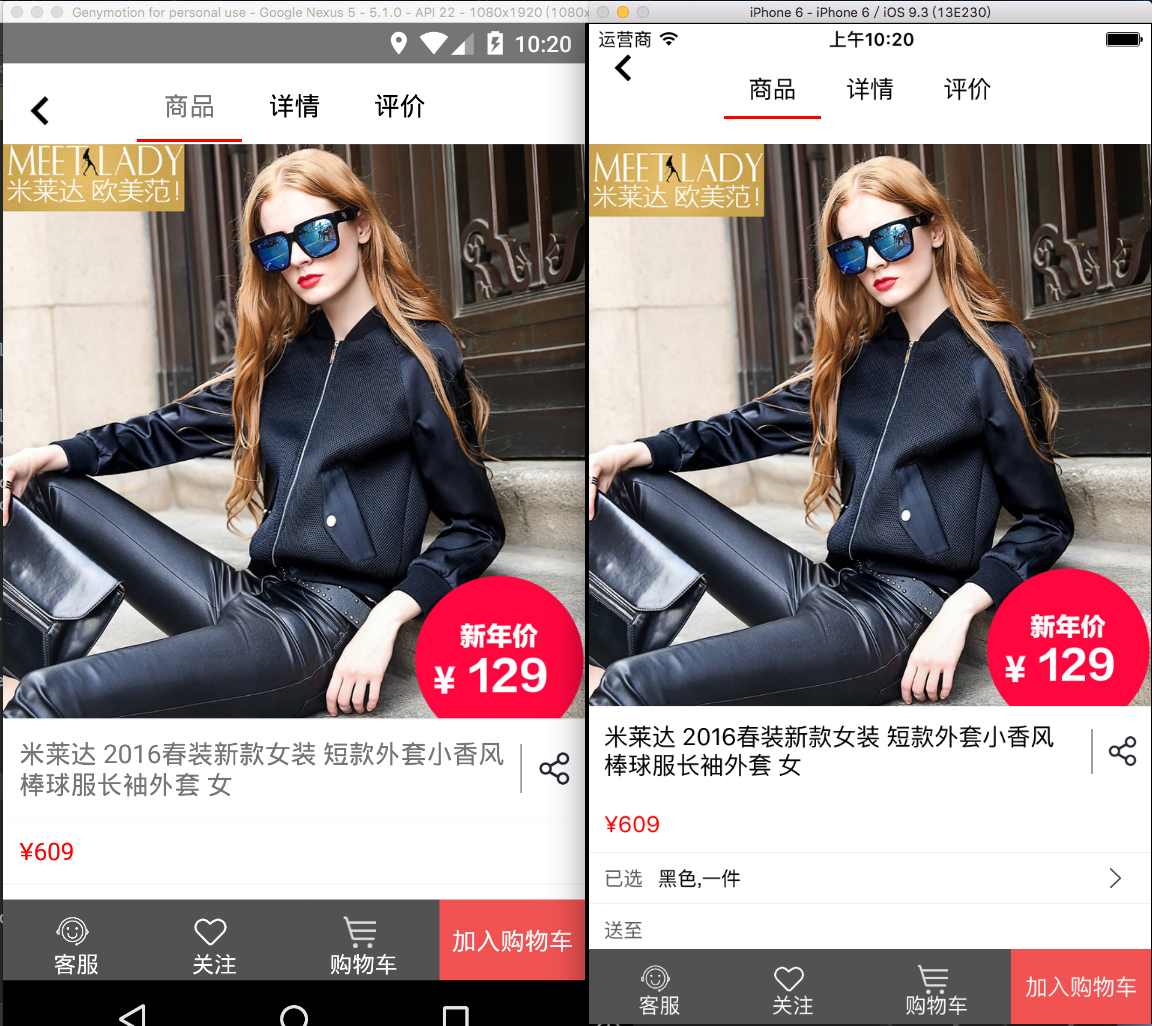
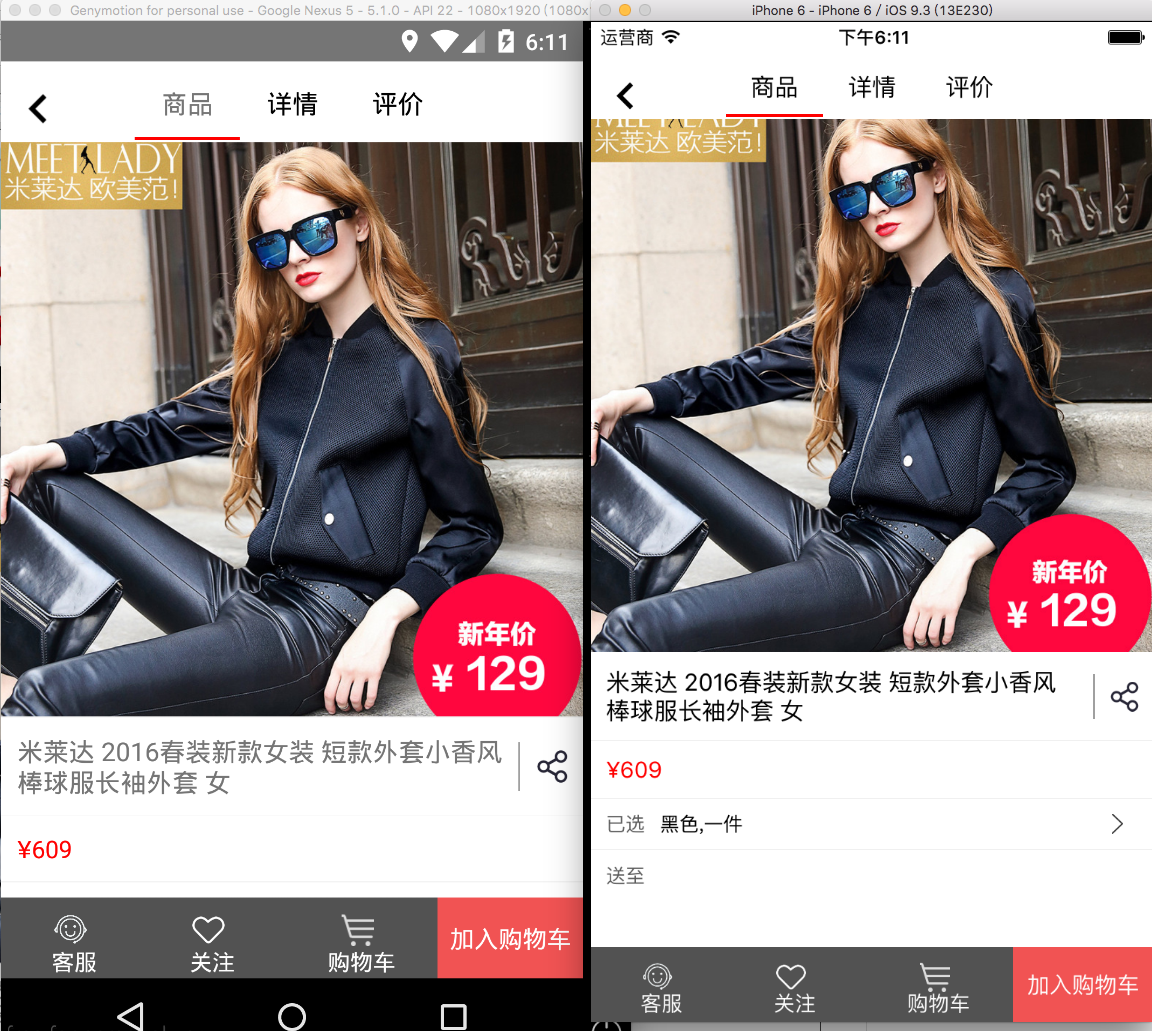
详情页action修改

diff --git a/app/product/ProductDetail.js b/app/product/ProductDetail.js
@@ -9,6 +9,7 @@ import {
     ScrollView,
     InteractionManager,
     TouchableOpacity,
+    Platform,
     View,
 } from 'react-native';
 
@@ -36,12 +37,6 @@ export default class ProductDetail extends React.Component {
 
     _onBackPress() {
         this.props.navigator.pop();
-    }
-
-    componentWillReceiveProps(nextProps) {
-        // this.setState({
-        //       isDrop:!this.state.isDrop
-        // });
     }
 
     handleSortTypesViewAnimation() {
@@ -81,6 +76,14 @@ export default class ProductDetail extends React.Component {
             <Animated.View style={typesStyle}>
                 <View style={{backgroundColor:'white',
                  height:Constant.window.height-Constant.window.height/3}}>
+
+                  <View>
+
+
+
+                  </View>
+
+
                 </View>
             </Animated.View>
         )
@@ -116,8 +119,6 @@ export default class ProductDetail extends React.Component {
                 case 0:
                     childView = <View style={{flex:1}}>
                         <ProductDetail1 {...this.props}/>
-                        {this.state.isDrop ? this.renderCoverView() : null}
-                        {this.renderSortTypesView()}
                         <View style={styles.separate}/>
                         <View style={styles.bottom}>
                             <View
@@ -149,7 +150,8 @@ export default class ProductDetail extends React.Component {
                                 </View>
                             </TouchableOpacity>
                         </View>
-                        {/*{this.renderSortTypesView()}*/}
+                        {this.state.isDrop ? this.renderCoverView() : null}
+                        {this.renderSortTypesView()}
                     </View>;
                     break;
                 case 1:
@@ -188,7 +190,7 @@ export default class ProductDetail extends React.Component {
                         {this._renderTab(tabIndex)}
                     </IndicatorNavigator>
                 </View>
-                <TouchableOpacity style={{position:'absolute',top:12,left:5,}}
+                <TouchableOpacity style={styles.backImg}
                                   activeOpacity={0.7} onPress={()=>this._onBackPress()}>
                     <Image source={require('../image/ic_arrow_back_black_@2x.png')}/>
                 </TouchableOpacity>
@@ -231,10 +233,15 @@ const styles = StyleSheet.create({
     tabContainer: {
         justifyContent: 'center',
         paddingTop: Constant.window.statusBarHeight,
-        height: Constant.window.navigatorBarHeight + 5,
+        height: (Platform.OS === 'ios'?60:45)+5,
         backgroundColor: 'white'
     },
     sceneContainer: {
-        paddingTop: Constant.window.statusBarHeight + Constant.window.navigatorBarHeight,
+        paddingTop: Constant.window.statusBarHeight +  Platform.OS === 'ios'?60:45,
     },
+    backImg:{
+        position:'absolute',
+        top:12+Constant.window.statusBarHeight,
+        left:5,
+    }
 });

diff --git a/app/actions/DetailAction.js b/app/actions/DetailAction.js
@@ -48,3 +48,26 @@ export let tabChanged = (tabIndex)=> {
     }
 }
 
+/**
+ * 购物车pop
+ * @param index
+ * @returns {{type, tabIndex: *}}
+ */
+export let cartPopDrop = (cartPop)=> {
+    return {
+        type: TYPES.DETAIL_TAB_CHANGED,
+        tabIndex: tabIndex,
+    }
+}
+
+/**
+ * 分享pop
+ * @param index
+ * @returns {{type, tabIndex: *}}
+ */
+export let sharePopDrop = (sharePop)=> {
+    return {
+        type: TYPES.DETAIL_TAB_CHANGED,
+        tabIndex: tabIndex,
+    }
+}

diff --git a/app/product/ProductDetail1.js b/app/product/ProductDetail1.js
@@ -24,7 +24,7 @@ export default class ProductDetail1 extends Component {
 
     }
 
-    _renderCarousel(data: Array) {
+    _renderCarousel(data:Array) {
         return data.map((item, i)=> {
             return (
                 <Image key={i} resizeMode={'stretch'} style={styles.image}
